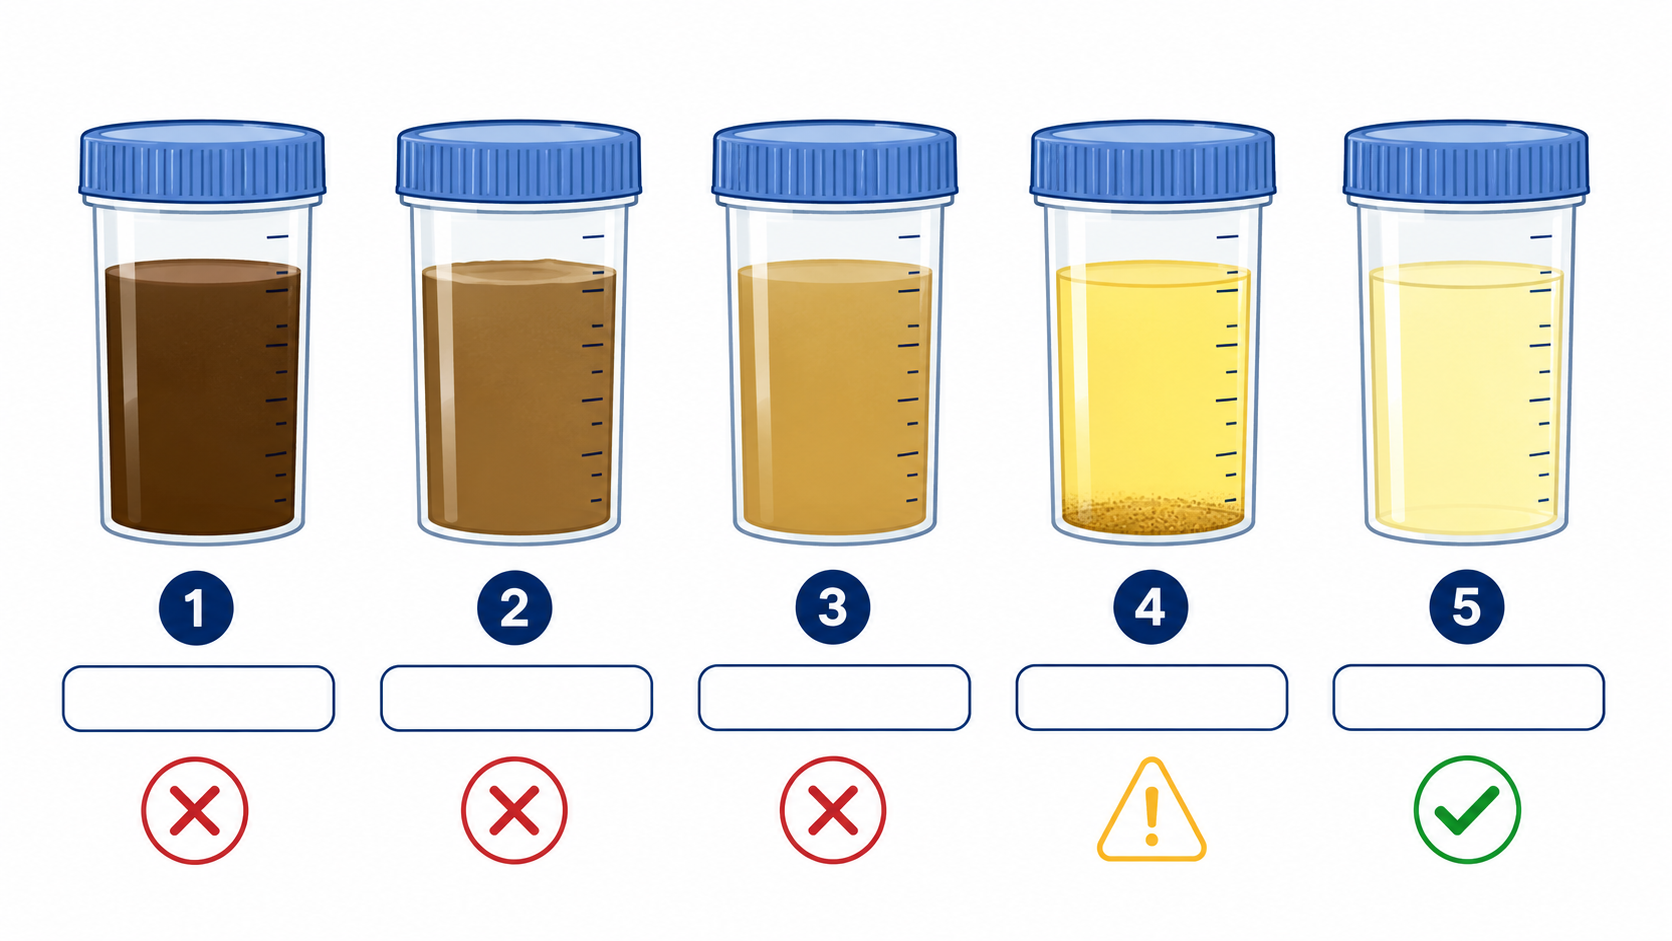
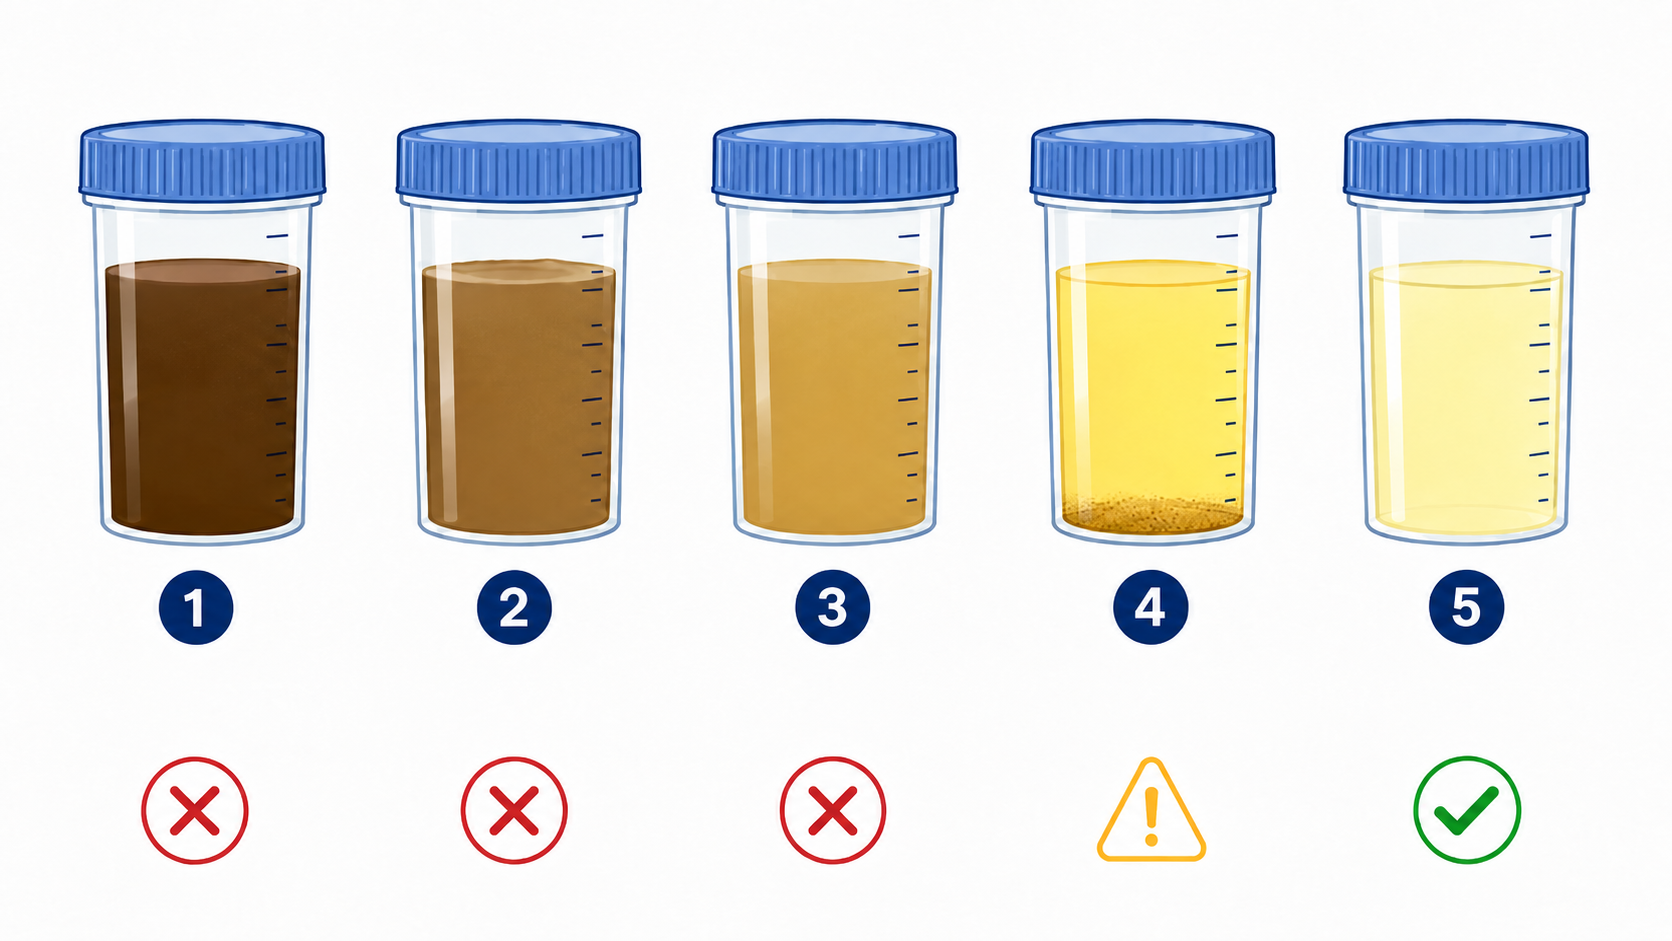
Redesign colonoscopy-prep layout for higher density and readability
- Replaces stool-clarity image with clearer blue-cap 5-stage version
- Merges DO/DON'T text cards into a single section beside food grid;
  removes duplicate text since the food-grid illustration already
  conveys recommended vs avoided items
- Adds stool-clarity strip into the diet section's left column to
  fill the formerly-empty area below the text cards
- Splits meds section into 3-col: 복약 (left) | 약물 3분류 image +
  per-card medication labels (center) | 내원 (right) — bumps card
  font/padding so each column fills the row height evenly
- Breaks the emergency contact line into two rows so it reads better

diff --git a/handouts/endoscopy/colonoscopy-prep/index.html b/handouts/endoscopy/colonoscopy-prep/index.html
@@ -19,38 +19,68 @@
   <link rel="stylesheet" href="../../../shared/design-tokens.css">
   <link rel="stylesheet" href="../../../shared/clinic-handout-a4.css">
   <style>
-    .page--colonoscopy-prep { gap: 2mm; }
-    .page--colonoscopy-prep .page__body { gap: 1mm; }
+    .page--colonoscopy-prep { gap: 2.4mm; }
+    .page--colonoscopy-prep .page__body { gap: 1.6mm; }
 
-    /* Tighten existing primitives for this dense page */
-    .page--colonoscopy-prep .section-heading { font-size: 9pt; margin-bottom: 0.8mm; }
-    .page--colonoscopy-prep .checklist { gap: 0.8mm; }
-    .page--colonoscopy-prep .checklist__item { gap: 1.6mm; }
-    .page--colonoscopy-prep .checklist__text { font-size: 7.8pt; line-height: 1.28; }
-    .page--colonoscopy-prep .card { padding: 1mm 1.6mm; }
-    .page--colonoscopy-prep .card-list { gap: 0.15mm; }
-    .page--colonoscopy-prep .card-list li { font-size: 7.4pt; line-height: 1.24; }
-    .page--colonoscopy-prep .card-label { font-size: 7.4pt; margin-bottom: 0.5mm; }
-    .page--colonoscopy-prep .page__title-block { margin-bottom: 0; }
-    .page--colonoscopy-prep .page__subtitle { font-size: 8.4pt; line-height: 1.35; }
+    /* Slightly larger text — bigger card font + line-height for readability */
+    .page--colonoscopy-prep .section-heading { font-size: 9.6pt; margin-bottom: 1mm; }
+    .page--colonoscopy-prep .checklist { gap: 1.4mm; }
+    .page--colonoscopy-prep .checklist__item { gap: 2mm; }
+    .page--colonoscopy-prep .checklist__text { font-size: 9pt; line-height: 1.4; }
+    .page--colonoscopy-prep .checklist__num { font-size: 11pt; }
+    .page--colonoscopy-prep .card { padding: 1.6mm 2mm; }
+    .page--colonoscopy-prep .card-list { gap: 0.6mm; }
+    .page--colonoscopy-prep .card-list li { font-size: 8.2pt; line-height: 1.35; }
+    .page--colonoscopy-prep .card-label { font-size: 8pt; margin-bottom: 0.8mm; }
+    .page--colonoscopy-prep .page__subtitle { font-size: 9pt; line-height: 1.4; }
 
-    /* SECTION: Low-residue diet - text 2-col stacked + food grid image */
+    /* SECTION 1: Low-residue diet
+       2-col: 변 투명도 strip (좌) | 식품 신호등 이미지 (우)
+       Ratios: stool 1.78 (wide), food-grid 0.71 (tall) → grid 1.7:1 keeps similar heights */
     .colo-diet-row {
       display: grid;
-      grid-template-columns: 1.55fr 1fr;
-      gap: 2.5mm;
+      grid-template-columns: 1.7fr 1fr;
+      gap: 3mm;
       align-items: stretch;
     }
-    .colo-diet-text {
+    .colo-stool-strip {
+      border: 1px solid var(--color-border);
+      border-radius: var(--radius-sm);
+      background: #F8FAFC;
+      padding: 1.4mm 2mm 2mm;
       display: flex;
       flex-direction: column;
-      gap: 1.4mm;
+      gap: 1mm;
+      min-height: 0;
+    }
+    .colo-stool-strip__cap {
+      font-size: 8.4pt;
+      font-weight: var(--weight-semibold);
+      color: var(--color-navy);
+      text-align: center;
+      letter-spacing: -0.01em;
+    }
+    .colo-stool-strip__cap strong { color: #B91C1C; }
+    .colo-stool-strip__img {
+      display: flex;
+      align-items: center;
+      justify-content: center;
+      flex: 1 1 auto;
+      min-height: 0;
+    }
+    .colo-stool-strip__img img {
+      max-width: 100%;
+      max-height: 100%;
+      width: auto;
+      height: auto;
+      object-fit: contain;
+      display: block;
     }
     .colo-food-grid {
       border: 1px solid var(--color-border);
       border-radius: var(--radius-sm);
       background: #FFFFFF;
-      padding: 0.6mm;
+      padding: 1mm;
       display: flex;
       align-items: center;
       justify-content: center;
@@ -66,52 +96,81 @@
       display: block;
     }
 
-    /* SECTION: Stool clarity strip below bowel-prep cards */
-    .colo-stool-strip {
+    /* SECTION 2: Meds + arrival — 3-col grid
+       복약 카드 (좌) | 약물 3분류 이미지 + 라벨 (가운데) | 내원 카드 (우)
+       Text cards use bigger font + line-height + gap to fill same height as middle pack */
+    .colo-meds-row {
+      display: grid;
+      grid-template-columns: 1fr 1fr 1fr;
+      gap: 3mm;
+      align-items: stretch;
+    }
+    .colo-meds-row > .card {
+      padding: 2.4mm 2.6mm;
+      display: flex;
+      flex-direction: column;
+    }
+    .colo-meds-row > .card .card-label {
+      font-size: 9pt;
+      margin-bottom: 1.6mm;
+    }
+    .colo-meds-row > .card .card-list {
+      gap: 1.8mm;
+      flex: 1 1 auto;
+      display: flex;
+      flex-direction: column;
+      justify-content: space-evenly;
+    }
+    .colo-meds-row > .card .card-list li {
+      font-size: 9.2pt;
+      line-height: 1.45;
+    }
+    .colo-meds-pack {
       border: 1px solid var(--color-border);
       border-radius: var(--radius-sm);
-      background: #F8FAFC;
-      padding: 0.6mm 2mm 0.8mm;
-      margin-top: 0.8mm;
-    }
-    .colo-stool-strip__title {
-      font-size: 7.4pt;
-      font-weight: var(--weight-semibold);
-      color: var(--color-navy);
-      text-align: center;
-      margin-bottom: 0.3mm;
-      letter-spacing: -0.01em;
-    }
-    .colo-stool-strip__title strong { color: #B91C1C; }
-    .colo-stool-strip__img {
-      display: flex;
-      align-items: center;
-      justify-content: center;
-      height: 11mm;
-    }
-    .colo-stool-strip__img img {
-      max-width: 100%;
-      max-height: 100%;
-      object-fit: contain;
-      display: block;
-    }
-
-    /* SECTION: Meds tile inside navy card */
-    .colo-meds-tile {
       background: #FFFFFF;
-      border-radius: var(--radius-sm);
-      padding: 0.3mm;
-      margin-top: 0.5mm;
+      padding: 1mm 1mm 1.4mm;
       display: flex;
-      align-items: center;
-      justify-content: center;
+      flex-direction: column;
+      gap: 0.8mm;
       overflow: hidden;
     }
-    .colo-meds-tile img {
-      width: 100%;
-      height: 5mm;
+    .colo-meds-pack__img {
+      flex: 1 1 auto;
+      display: flex;
+      align-items: center;
+      justify-content: center;
+      min-height: 0;
+    }
+    .colo-meds-pack__img img {
+      max-width: 100%;
+      max-height: 100%;
+      width: auto;
+      height: auto;
       object-fit: contain;
       display: block;
+    }
+    .colo-meds-pack__labels {
+      display: grid;
+      grid-template-columns: 1fr 1fr 1fr;
+      gap: 1mm;
+      padding: 0 1mm;
+      text-align: center;
+      color: var(--color-navy);
+    }
+    .colo-meds-pack__labels > div {
+      font-size: 7.4pt;
+      line-height: 1.25;
+    }
+    .colo-meds-pack__labels strong {
+      display: block;
+      font-size: 8pt;
+      font-weight: var(--weight-semibold);
+      margin-bottom: 0.2mm;
+    }
+    .colo-meds-pack__labels span {
+      font-size: 6.6pt;
+      color: var(--color-ink-700);
     }
   </style>
 </head>
@@ -156,30 +215,14 @@
       </div>
     </section>
 
-    <!-- 2-column: DO / DON'T food + food-grid illustration -->
+    <!-- 2-column: 변 투명도 strip (좌) | 식품 신호등 이미지 (우) — DO/DON'T 텍스트 카드는 식품 그리드와 중복이라 제거 -->
     <section>
-      <h2 class="section-heading">저잔사식 가이드 (Low-Residue Diet) — 3일 전부터</h2>
+      <h2 class="section-heading">저잔사식 가이드 (Low-Residue Diet) — 3일 전부터 · 변 색깔 자가 체크 (장정결제 복용법은 별도 안내문)</h2>
       <div class="colo-diet-row">
-        <div class="colo-diet-text">
-          <!-- DO -->
-          <div class="card">
-            <div class="card-label card-label--steel">권장 · DO</div>
-            <ul class="card-list">
-              <li><strong>흰밥·흰죽·흰빵·국수</strong> — 정제 탄수화물</li>
-              <li><strong>두부·계란·닭가슴살·흰살생선</strong> — 부드러운 단백질</li>
-              <li><strong>껍질·씨 뺀 사과·바나나</strong>, <strong>맑은 국물</strong> (건더기 X)</li>
-              <li><strong>물·보리차·이온음료</strong> (투명·노란색)</li>
-            </ul>
-          </div>
-          <!-- DON'T -->
-          <div class="card card--warning">
-            <div class="card-label card-label--warning">금지 · DON'T</div>
-            <ul class="card-list">
-              <li><strong>잡곡밥·현미·보리·콩</strong>, <strong>김치·나물·채소 줄기</strong></li>
-              <li><strong>씨 있는 과일</strong> (포도·수박·참외·키위·딸기)</li>
-              <li><strong>견과·참깨·옥수수·미역·다시마·김</strong></li>
-              <li><strong>우유·요구르트·붉은/보라색 음료·커피</strong></li>
-            </ul>
+        <div class="colo-stool-strip" aria-label="변 색깔 자가 체크 가이드 — 5단계 투명도 차트">
+          <div class="colo-stool-strip__cap">변 색깔 자가 체크 — <strong>⑤ 맑은 노란 액체</strong>에 도달하면 검사 가능</div>
+          <div class="colo-stool-strip__img">
+            <img src="../../../shared/assets/generated/colonoscopy-prep-stool-clarity-20260514.png" alt="변 투명도 5단계 자가 체크 — ①짙은 갈색·②흐린 갈색·③노란 갈색은 더 비워야 함, ④노란 액체는 거의 완료, ⑤맑은 노란 액체는 검사 준비 완료">
           </div>
         </div>
         <div class="colo-food-grid">
@@ -188,59 +231,32 @@
       </div>
     </section>
 
-    <!-- Bowel prep medication detail -->
+    <!-- 3-column: 복약 카드 (좌) | 약물 이미지+라벨 (가운데) | 내원 카드 (우) -->
     <section>
-      <h2 class="section-heading">장정결제 (Bowel Prep) 복용법 — 분할 복용 (Split-Dose)</h2>
-      <div class="body-2col">
-
-        <!-- 쿨프렙 -->
-        <div class="card card--accent">
-          <div class="card-label card-label--navy">쿨프렙산 (CoolPrep) · PEG 4종</div>
-          <ul class="card-list">
-            <li><strong>1차 (D−1 저녁 19–21시):</strong> 1L + 물 1L</li>
-            <li><strong>2차 (당일 새벽 4–5시):</strong> 1L + 물 1L</li>
-            <li><strong>속도:</strong> 10–15분 간격 한 컵씩</li>
-            <li><strong>총 수분 4L</strong> · 신장·심장 환자 안전 · 표준</li>
-          </ul>
-        </div>
-
-        <!-- 솔린액 -->
-        <div class="card card--accent">
-          <div class="card-label card-label--navy">솔린액 (Sodium Phosphate) · 선별 처방</div>
-          <ul class="card-list">
-            <li><strong>1차 (D−1 저녁):</strong> 45mL + 물 750mL+</li>
-            <li><strong>2차 (당일 새벽):</strong> 45mL + 물 750mL+</li>
-            <li><strong>금기:</strong> 신장질환·심부전·고령자</li>
-            <li><strong>추가 수분 1.5–2L</strong> 필수 (탈수 위험)</li>
-          </ul>
-        </div>
-
-      </div>
-
-      <!-- Stool clarity self-check strip -->
-      <div class="colo-stool-strip" aria-label="변 색깔 자가 체크 가이드 — 5단계 투명도 차트">
-        <div class="colo-stool-strip__title">변 색깔 자가 체크 — <strong>⑤ 맑은 노란 액체</strong>에 도달하면 검사 가능</div>
-        <div class="colo-stool-strip__img">
-          <img src="../../../shared/assets/generated/colonoscopy-prep-stool-clarity-20260514.png" alt="변 투명도 5단계 자가 체크 — ①짙은 갈색·②흐린 갈색·③노란 갈색은 더 비워야 함, ④노란 액체는 거의 완료, ⑤맑은 노란 액체는 검사 준비 완료">
-        </div>
-      </div>
-    </section>
-
-    <!-- Combined: meds warning + arrival info (2-col) -->
-    <section>
-      <div class="body-2col">
+      <h2 class="section-heading">복약·내원 가이드 · 약물 3분류 (계속 / 중단 / 의사 상담)</h2>
+      <div class="colo-meds-row">
+        <!-- 좌: 복약·항혈전제 카드 -->
         <div class="card card--navy">
           <div class="card-label">복약·항혈전제 · IMPORTANT</div>
           <ul class="card-list" style="color:var(--color-white-95);">
             <li>· <strong style="color:var(--color-sky);">혈압약</strong> 당일 아침 소량의 물과 복용 OK</li>
             <li>· <strong style="color:var(--color-sky);">당뇨약·인슐린</strong> 당일 중단 (저혈당 위험)</li>
             <li>· <strong style="color:var(--color-sky);">항혈전제</strong> 사전 상담 필수 (자가 중단 금지)</li>
-            <li>· 즉시 ☏ 031-893-4560 — 심한 구토·복통·혈변</li>
+            <li>· 즉시 ☏ 031-893-4560<br>&nbsp;&nbsp;&nbsp;심한 구토·복통·혈변</li>
           </ul>
-          <div class="colo-meds-tile">
+        </div>
+        <!-- 가운데: 약물 3분류 이미지 + 카드별 해당 약물 라벨 -->
+        <div class="colo-meds-pack">
+          <div class="colo-meds-pack__img">
             <img src="../../../shared/assets/generated/colonoscopy-prep-meds-cards-20260514.png" alt="약물 3분류 시각 카드 — 계속 복용 (혈압약), 중단 (당뇨약·인슐린), 의사 상담 필요 (항혈전제)">
           </div>
+          <div class="colo-meds-pack__labels">
+            <div><strong>혈압약</strong><br><span>심장·갑상선약</span></div>
+            <div><strong>당뇨약·인슐린</strong><br><span>경구 혈당강하제</span></div>
+            <div><strong>항혈전제</strong><br><span>아스피린·와파린</span></div>
+          </div>
         </div>
+        <!-- 우: 내원 시 준비물 -->
         <div class="card">
           <div class="card-label card-label--steel">내원 시 준비물 &amp; 도착</div>
           <ul class="card-list">